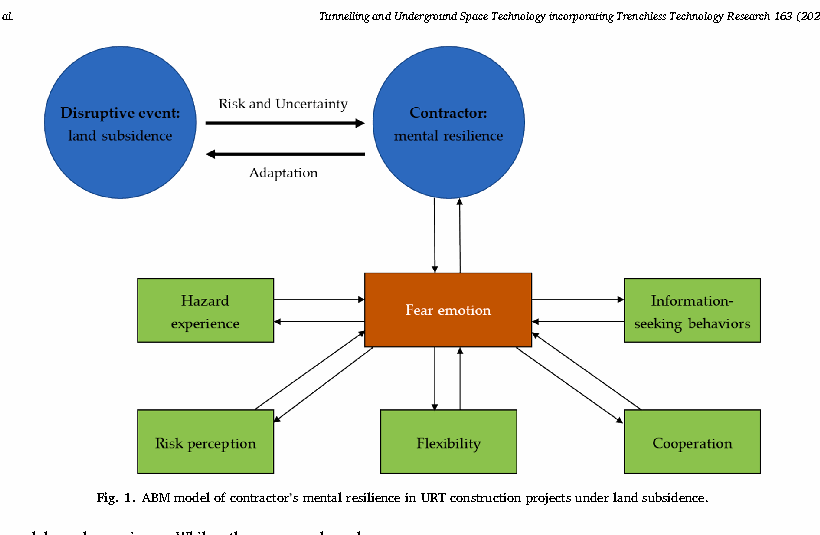
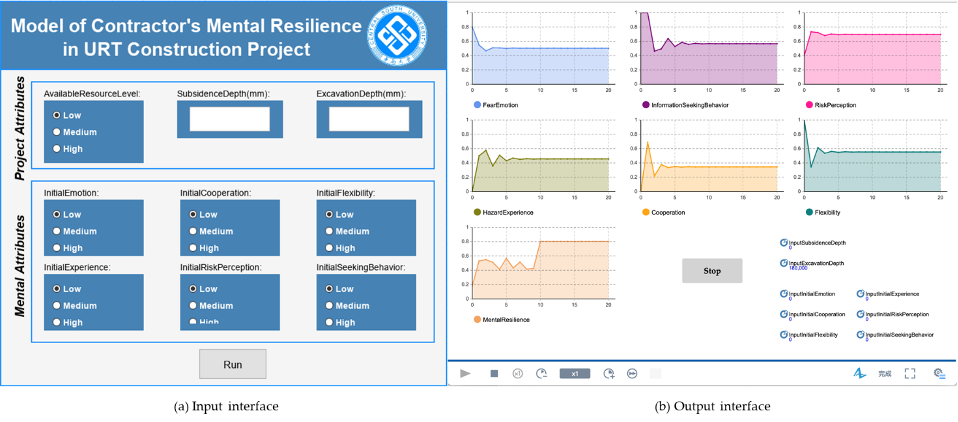
Improve project figures and layout

diff --git a/projects.html b/projects.html
@@ -30,7 +30,7 @@ title: Projects
 
     <article class="research-project">
       <figure class="research-project-figure">
-        <img src="{{ '/assets/projects/equity-restoration-performance.png' | prepend: site.baseurl }}" alt="Comparison of highway recovery performance under alternative restoration strategies">
+        <img src="{{ '/assets/projects/equity-restoration-performance.png' | prepend: site.baseurl }}" alt="Framework for equity-based highway resilience measurement and restoration prioritization">
       </figure>
       <div class="research-project-content">
         <div class="research-project-meta">Under revision · Equitable restoration</div>
@@ -48,7 +48,7 @@ title: Projects
 
     <article class="research-project">
       <figure class="research-project-figure">
-        <img src="{{ '/assets/projects/contractor-resilience-model.png' | prepend: site.baseurl }}" alt="Agent-based model of contractors' mental resilience under disruptive events">
+        <img src="{{ '/assets/projects/contractor-resilience-model.png' | prepend: site.baseurl }}" alt="Simulation interface for contractors' mental resilience under disruptive events">
       </figure>
       <div class="research-project-content">
         <div class="research-project-meta">2025 · Human and organizational resilience</div>

diff --git a/libs/custom/my_css.css b/libs/custom/my_css.css
@@ -206,15 +206,15 @@ h4 {
 .research-project:first-child {
   margin-top: 2rem; }
 .research-project-figure {
-  margin: 0 0 2.4rem; }
+  margin: 0 0 3rem;
+  text-align: center; }
 .research-project-figure img {
   display: block;
   width: 100%;
-  max-height: 42rem;
-  object-fit: contain;
   border: 1px solid #e7e7e7;
-  border-radius: 4px;
-  background: #fff; }
+  border-radius: 6px;
+  background: #fff;
+  box-shadow: 0 8px 24px rgba(0, 0, 0, 0.07); }
 .research-project-meta {
   color: #1EAEDB;
   font-size: 1.2rem;
@@ -237,18 +237,6 @@ h4 {
   margin: .5rem 0 0;
   padding: 0 2.5rem;
   text-transform: none; }
-
-@media (min-width: 750px) {
-  .research-project {
-    display: grid;
-    grid-template-columns: minmax(0, 42%) minmax(0, 58%);
-    gap: 3.2rem;
-    align-items: start; }
-  .research-project-figure {
-    margin: .4rem 0 0; }
-  .research-project-figure img {
-    max-height: 36rem; }
-}
 
 /* Larger than phone */
 @media (min-width: 550px) {
